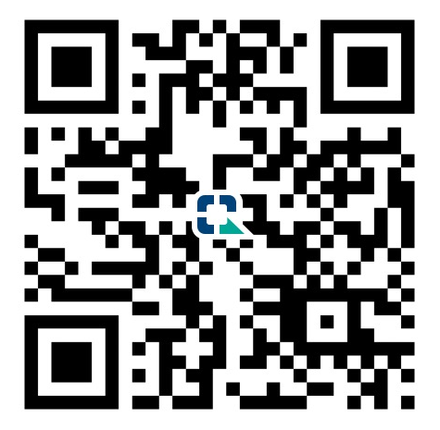
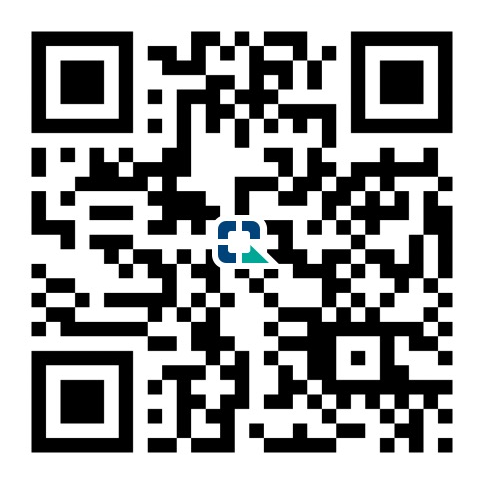
เปลี่ยน QR PromptPay รับเงินเป็นอันใหม่
Claude-Session: https://claude.ai/code/session_01FBTMhzRBTwbTDsPJ3wkces

Changed region(s): [[0.0295, 0.0302, 0.9455, 0.9674]]

diff --git a/donate.html b/donate.html
@@ -36,7 +36,7 @@ li{margin:.3em 0}
 
   <section class="card" aria-labelledby="h-qr">
     <h2 id="h-qr">สแกนจ่ายด้วย PromptPay</h2>
-    <img class="qr" src="qr.png" alt="QR PromptPay สำหรับร่วมสนับสนุนค่า server" width="440" height="430">
+    <img class="qr" src="qr.png" alt="QR PromptPay สำหรับร่วมสนับสนุนค่า server" width="485" height="485">
     <p class="mute" style="text-align:center">ใส่จำนวนเงินเองในแอปธนาคาร จะเป็น 20, 50, 100 บาท หรือเท่าไรก็ได้</p>
     <h2>วิธีร่วมสนับสนุน</h2>
     <ol>
